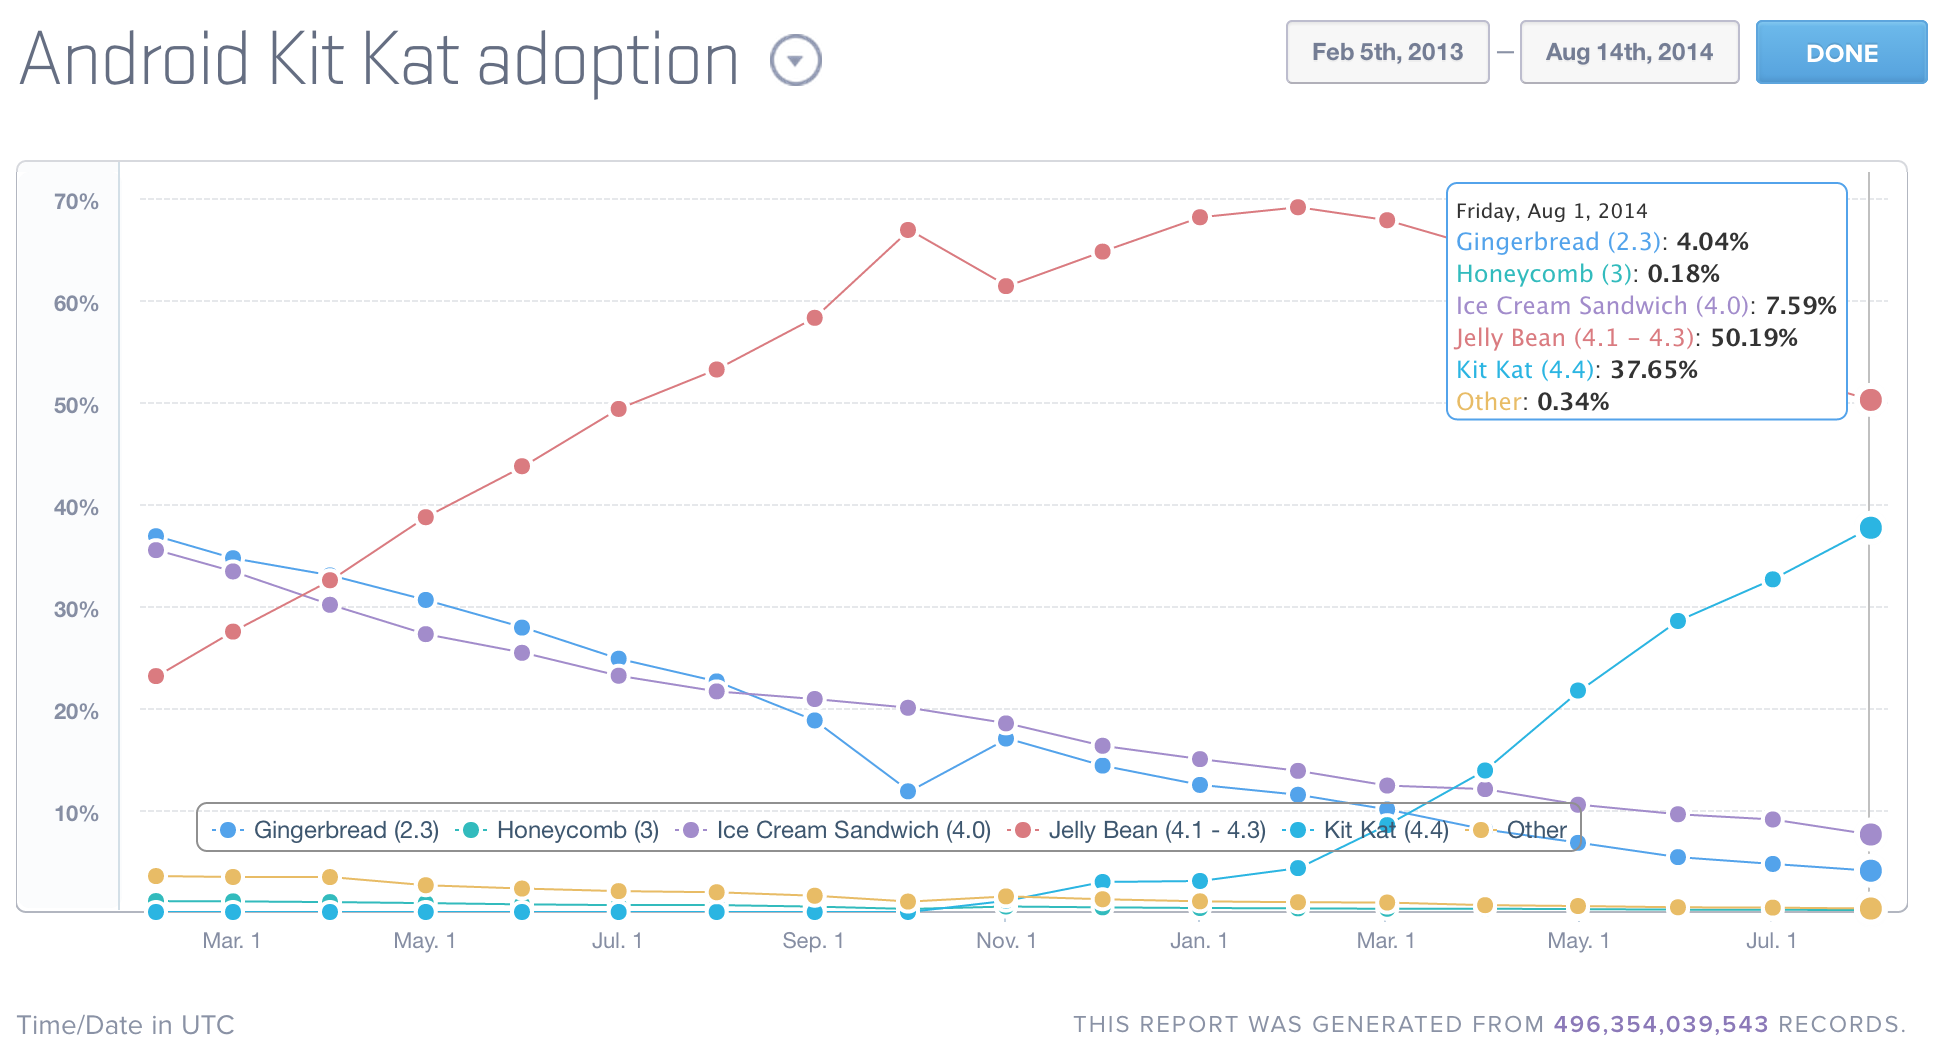
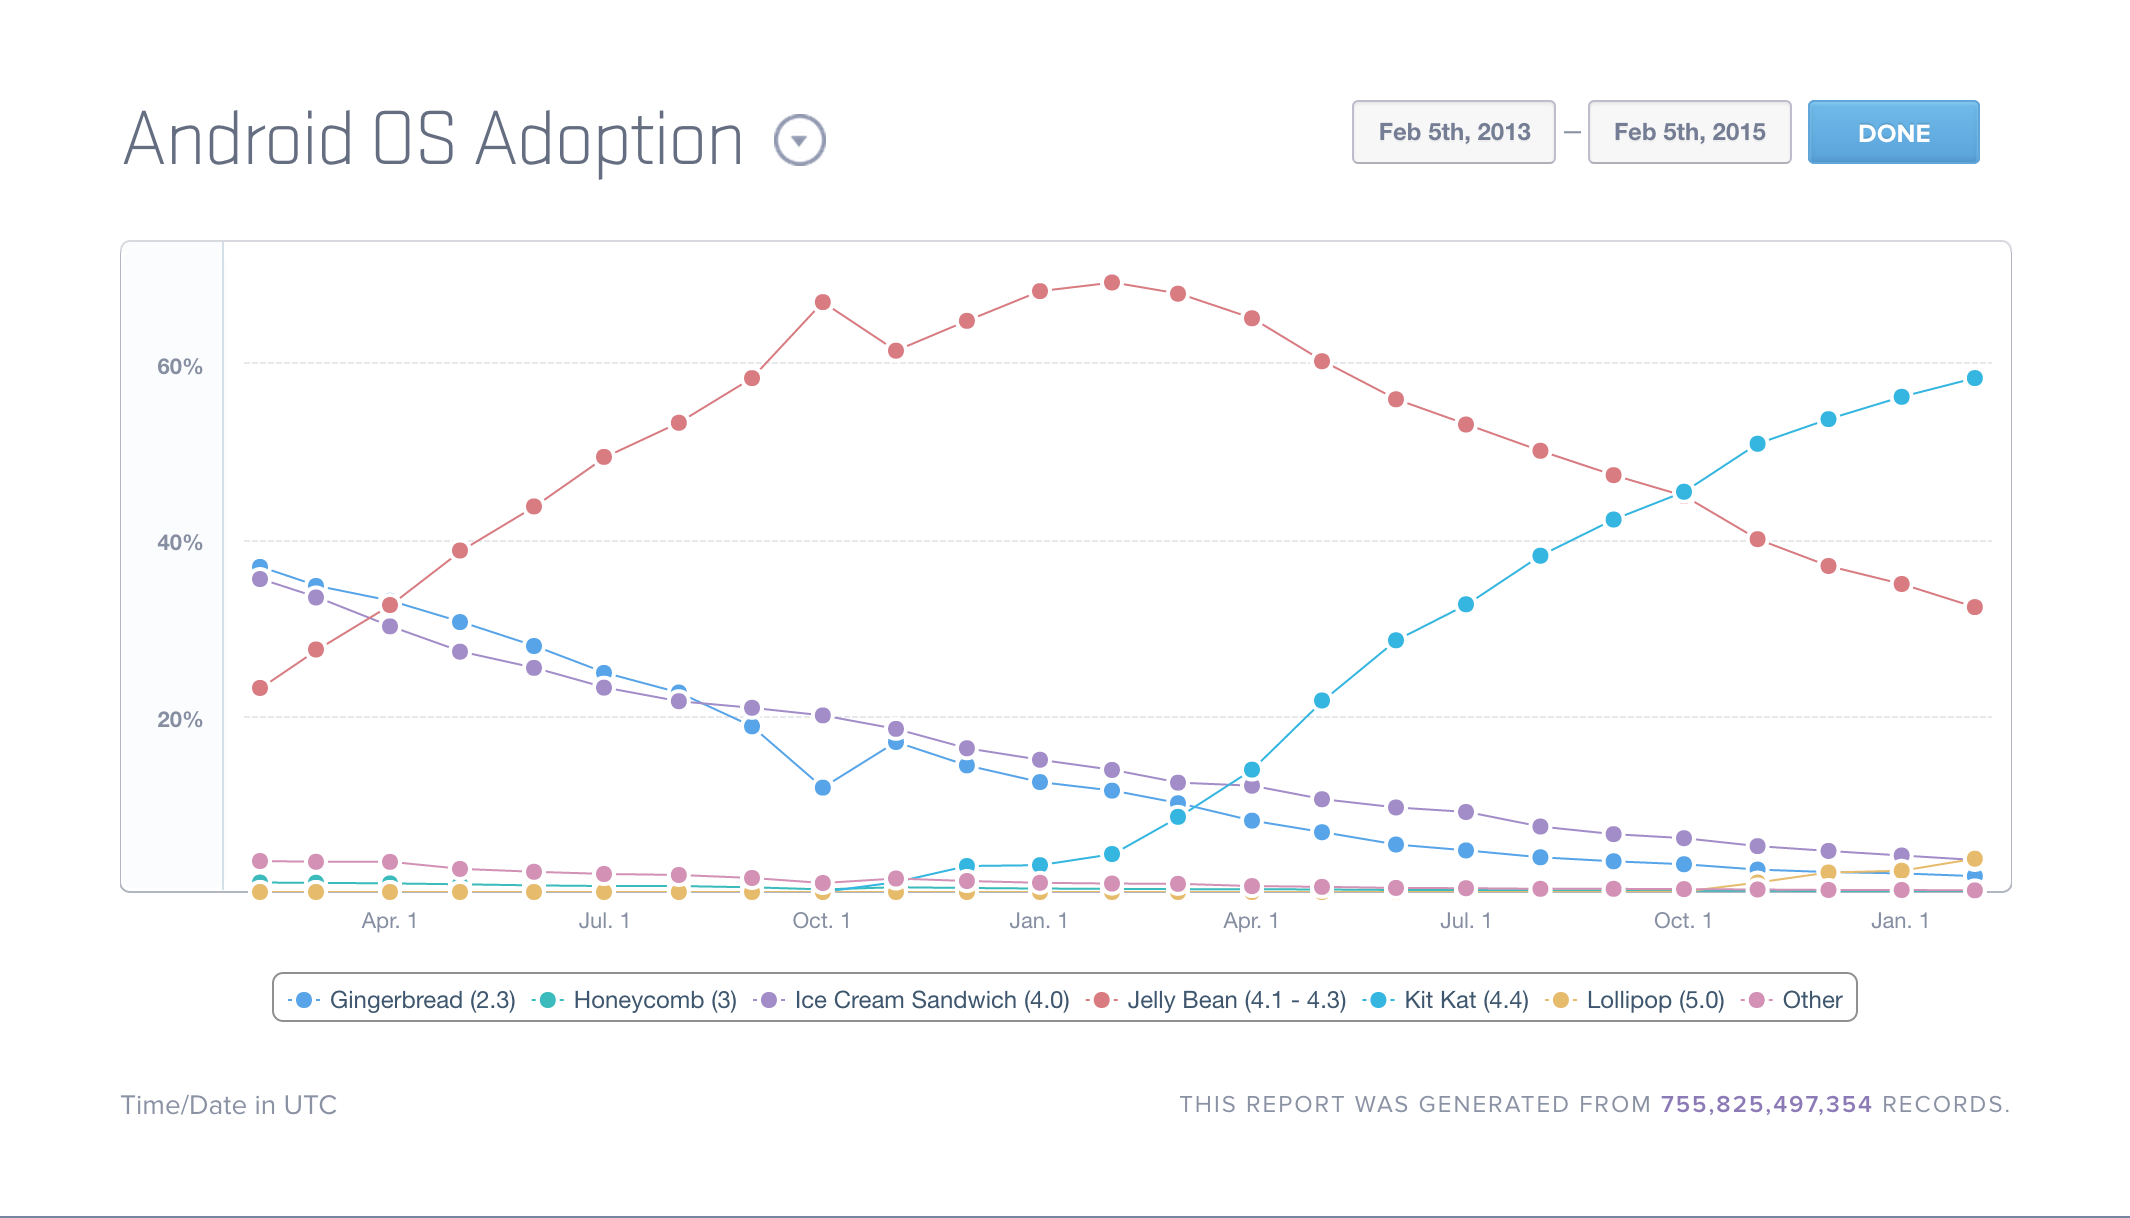
updating the presentation to reflect current data

diff --git a/index.html b/index.html
@@ -42,7 +42,7 @@
 
 
         <section>
-          <img src="img/me.jpeg" style="position: absolute; top:0; left:0; max-width: 260px; max-height: 260px; border-radius: 30px">
+          <img src="img/me.png" style="position: absolute; top:0; left:0; max-width: 260px; max-height: 260px; border-radius: 30px">
           <ul style="position: absolute; top:0; left:300px;">
             <li>Ionitron</li>
             <li>Ionic Framework Developer</li>
@@ -172,9 +172,9 @@
               <td>512 MB</td>
             </tr>
             <tr>
-              <td>2014</td>
-              <td>iPhone 5S</td>
-              <td>1.3 GHz dual-core</td>
+              <td>2015</td>
+              <td>iPhone 6</td>
+              <td>1.4 GHz dual-core</td>
               <td>1 GB</td>
             </tr>
           </table>
@@ -193,14 +193,14 @@
 
 
         <section>
-          <img src="img/ios7-adoption.png">
-          <p style="font-size:10px">https://mixpanel.com/trends/#report/ios_7/from_date:-332,to_date:0</p>
+          <img src="img/ios8-adoption.png">
+          <p style="font-size:10px">https://mixpanel.com/trends/#report/ios_8/from_date:-141,report_unit:day,to_date:0</p>
         </section>
 
 
         <section>
           <img src="img/android-adoption.png">
-          <p style="font-size:10px">https://mixpanel.com/trends/#report/android_kitkat</p>
+          <p style="font-size:10px">https://mixpanel.com/trends/#report/android_os_adoption</p>
         </section>
 
 
@@ -336,14 +336,14 @@
         <section>
           <h2>Ionic's Adoption</h2>
           <ul>
-            <li>8400+ Github Stars</li>
-            <li>Top 80 mosted starred Github repos</li>
+            <li>13,000+ Github Stars</li>
+            <li>Top 50 most starred Github repos</li>
             <li>Consistently Top 10 trending JS Github repos</li>
             <li>Ionic CLI averages 1,000 downloads/day</li>
             <li>120,000+ Ionic apps have been started from our CLI</li>
             <li>Released Alpha: November 2013</li>
             <li>Released Beta: March 2014</li>
-            <li>Release Candidate: Fall 2014</li>
+            <li>Release Candidate: Winter 2015</li>
           </ul>
         </section>
 
@@ -397,16 +397,8 @@
             <pre><code data-trim contenteditable class="xml">
 <ion-list>
 
-  <ion-item ng-repeat="item in items"
-<<<<<<< HEAD
-            class="item-thumbnail-left">
-    <img ng-src="{{ item.pic }}">
-    <h2>{{ item.name }}</h2>
-    <p>{{ item.quote }}</p>
-=======
-            item="item">
+  <ion-item ng-repeat="item in items" item="item">
     List Item {{ item.id }}
->>>>>>> 460d2b64d0dce9e536c6795e10ebad0c3e146299
   </ion-item>
 
 </ion-list></code></pre>

diff --git a/demos/collection-repeat/index.html b/demos/collection-repeat/index.html
@@ -10,7 +10,7 @@
 <body ng-controller="MainCtrl">
 
   <ion-header-bar class="bar-positive">
-    <h1 class="title">Collection Repeat: 3000 items</h1>
+    <h1 class="title">Collection Repeat: 3000 cats</h1>
   </ion-header-bar>
 
   <ion-content>
